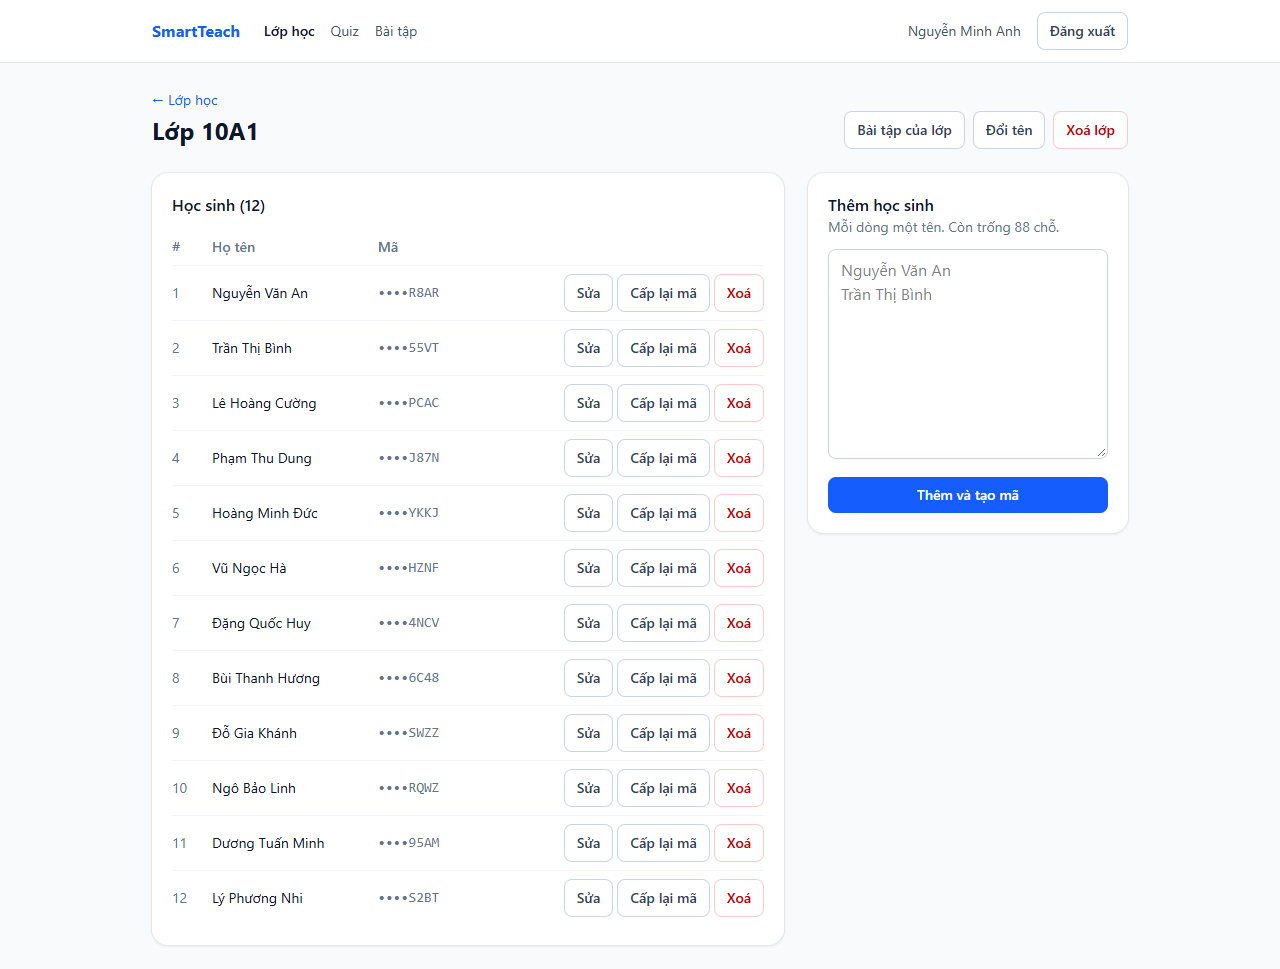
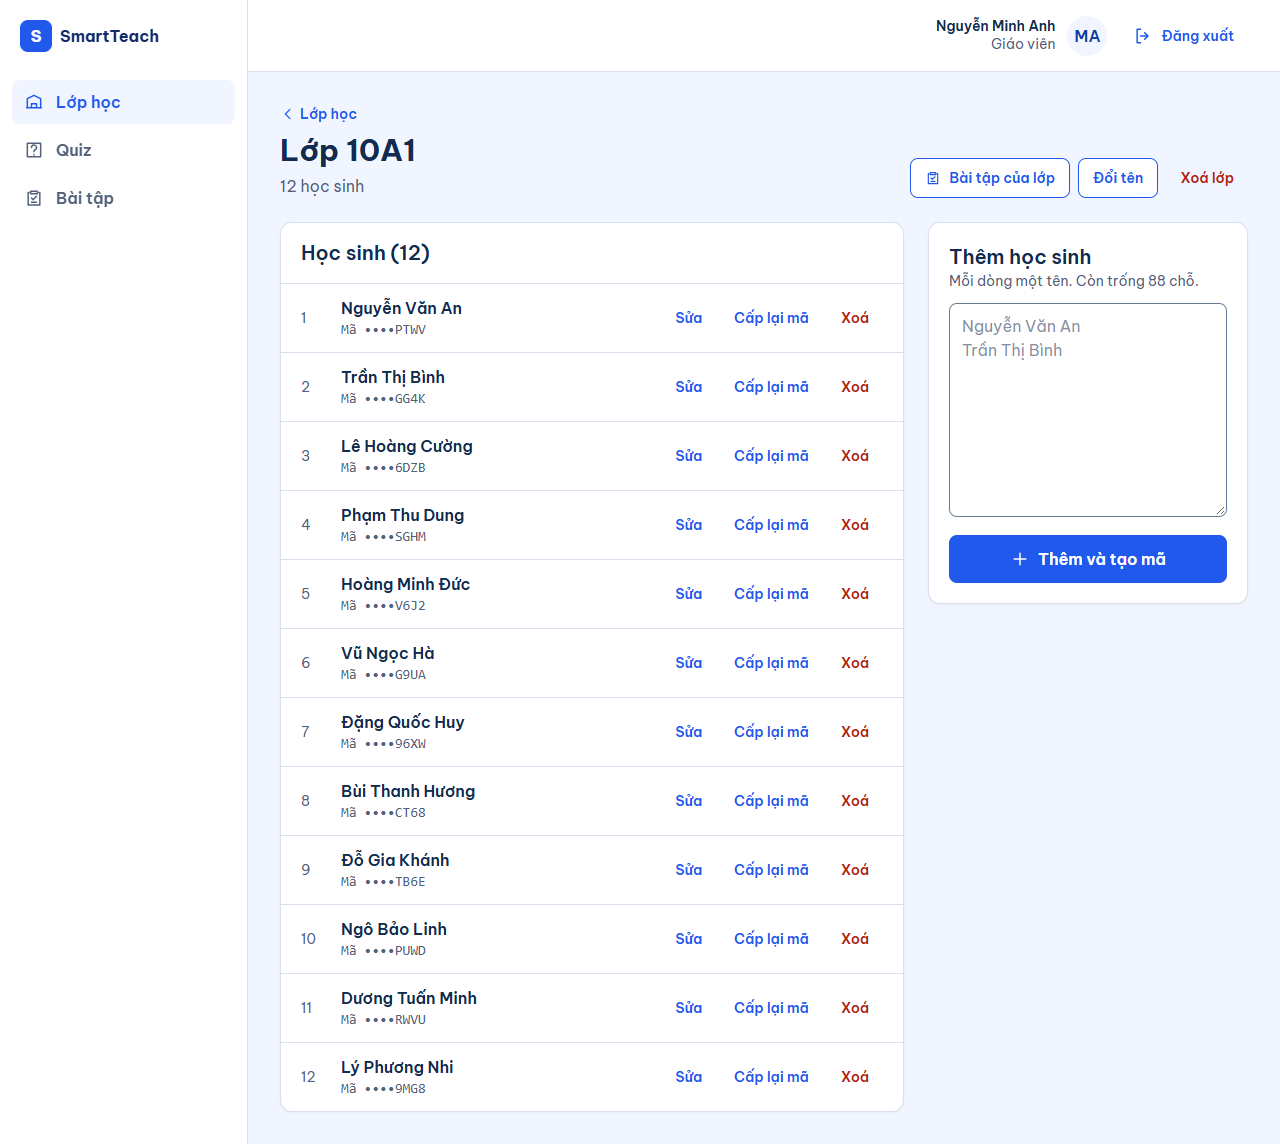
docs: refresh screenshots and describe the UI

diff --git a/README.md b/README.md
@@ -17,8 +17,9 @@ frontend. The UI is in Vietnamese; code, API and docs are in English.
 **Live demo:** https://smart-teach-vn.vercel.app · **API docs:**
 https://smartteach-api.onrender.com/swagger-ui.html
 
-Demo teacher account: `demo@smartteach.vn` / `DEMO_PASSWORD_HERE`. The demo data is
-recreated every time the backend starts, so feel free to change anything.
+Demo teacher account: `demo@smartteach.vn` / `DEMO_PASSWORD_HERE`, or press **Dùng tài
+khoản demo** on the login page. The demo data is recreated every time the backend starts, so
+feel free to change anything.
 
 > The demo runs on free plans. The backend sleeps after 15 idle minutes, so the first request
 > after a quiet period can take 2–3 minutes while the backend and the database wake up; after
@@ -45,6 +46,37 @@ recreated every time the backend starts, so feel free to change anything.
 | Live quiz: student answering | Live quiz: student after the reveal |
 |---|---|
 | ![Live player question](docs/screenshots/live-player-question.png) | ![Live player reveal](docs/screenshots/live-player-reveal.png) |
+
+| Login with the demo button (phone) | Navigation drawer (phone) |
+|---|---|
+| ![Login on a phone](docs/screenshots/login-mobile.png) | ![Mobile menu](docs/screenshots/mobile-menu.png) |
+
+## UI
+
+The frontend uses no UI kit: a small set of components written for this project on top of
+Tailwind CSS.
+
+- **Design tokens:** colours, shadows and type sizes come from the Figma design and live in
+  one Tailwind `@theme` block ([`frontend/src/index.css`](frontend/src/index.css)), so pages
+  use names like `bg-primary` or `text-ink-muted` instead of raw colours. The font is Be
+  Vietnam Pro, self-hosted with only the Latin and Vietnamese subsets.
+- **Every data view has four states:** a skeleton while loading, an empty state with the next
+  action, an error with a retry button, and the data. When the first load or a sign-in takes
+  more than a few seconds (the free backend is waking up), a hint explains the wait instead
+  of an endless spinner.
+- **Phones first for students:** the student and live quiz pages are designed at 375 px wide
+  with large touch targets; the teacher pages collapse the sidebar into a drawer.
+- **No surprises:** destructive actions (delete, submit, end a live game) ask for
+  confirmation in an accessible native `<dialog>`.
+- **Routes are code-split**, so a student opening an assignment link does not download the
+  teacher pages.
+
+Lighthouse (production build, simulated mobile throttling, median of 3 runs):
+
+| Page | Performance (375 px / 1280 px) | Accessibility |
+|---|---|---|
+| Login | 96 / 100 | 100 |
+| Student assignment | 96 / 100 | 100 |
 
 ## Features
 
@@ -155,6 +187,7 @@ API docs (Swagger UI): http://localhost:8080/swagger-ui.html
 | `KEEP_ALIVE_URL` | backend | Public backend URL for the keep-alive pinger; defaults to `RENDER_EXTERNAL_URL` (set by Render), empty locally |
 | `VITE_API_URL` | frontend build | Backend origin; leave empty when `/api` is proxied (dev server, Vercel) |
 | `VITE_WS_URL` | frontend build | Live quiz WebSocket, e.g. `wss://<backend>/ws`; leave empty in dev (Vite proxies `/ws`) |
+| `VITE_DEMO_EMAIL`, `VITE_DEMO_PASSWORD` | frontend build | Optional. Shows a "Use demo account" button on the login page. These values end up in the public JS bundle, so use them only for the demo account; locally put them in `frontend/.env.local` |
 
 ## Deploy
 
@@ -177,7 +210,9 @@ The repository contains the configuration for a free deployment:
   [`frontend/vercel.json`](frontend/vercel.json) rewrites `/api/*` to the Render URL and every
   other path to `index.html` (client-side routing). Set `CORS_ALLOWED_ORIGINS` on Render to
   the Vercel URL, and `VITE_WS_URL=wss://<render host>/ws` on Vercel for the live quiz (the
-  WebSocket handshake is checked against the same allowed origins).
+  WebSocket handshake is checked against the same allowed origins). Set `VITE_DEMO_EMAIL` and
+  `VITE_DEMO_PASSWORD` on Vercel to the same values as `DEMO_EMAIL` / `DEMO_PASSWORD` on
+  Render to show the demo button.
 
 ### Keep-alive switch (admin)
 
